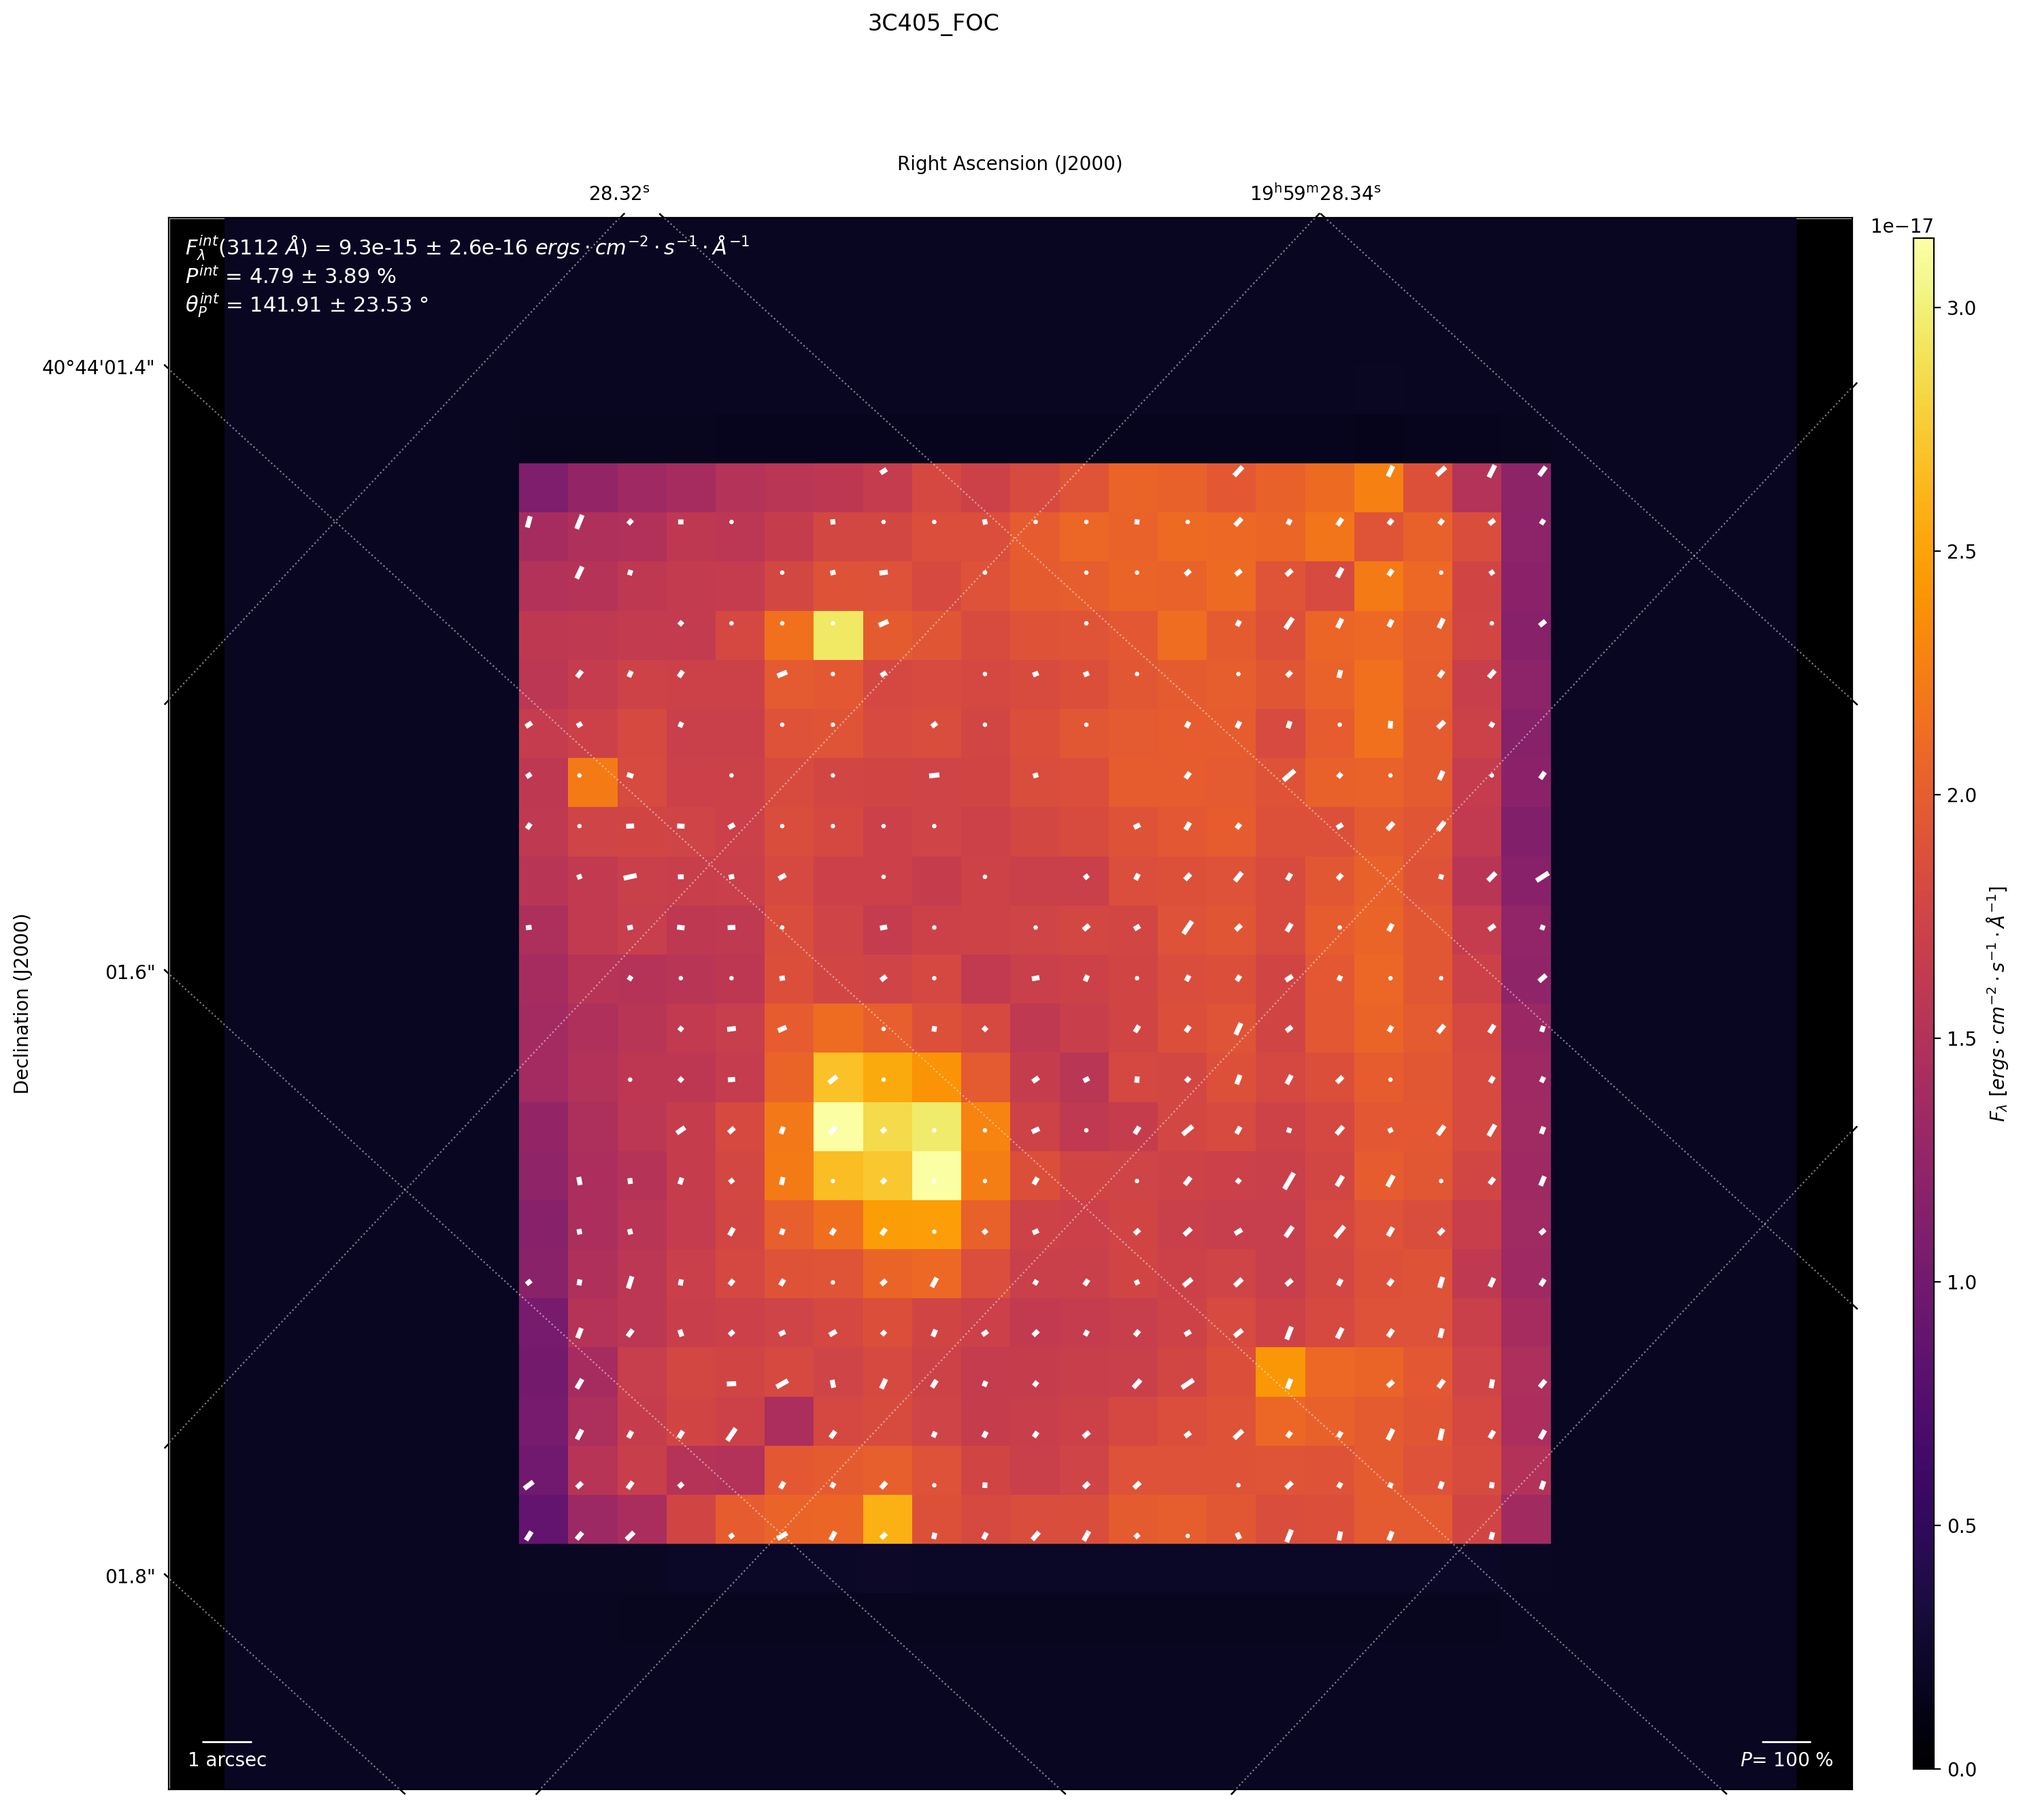
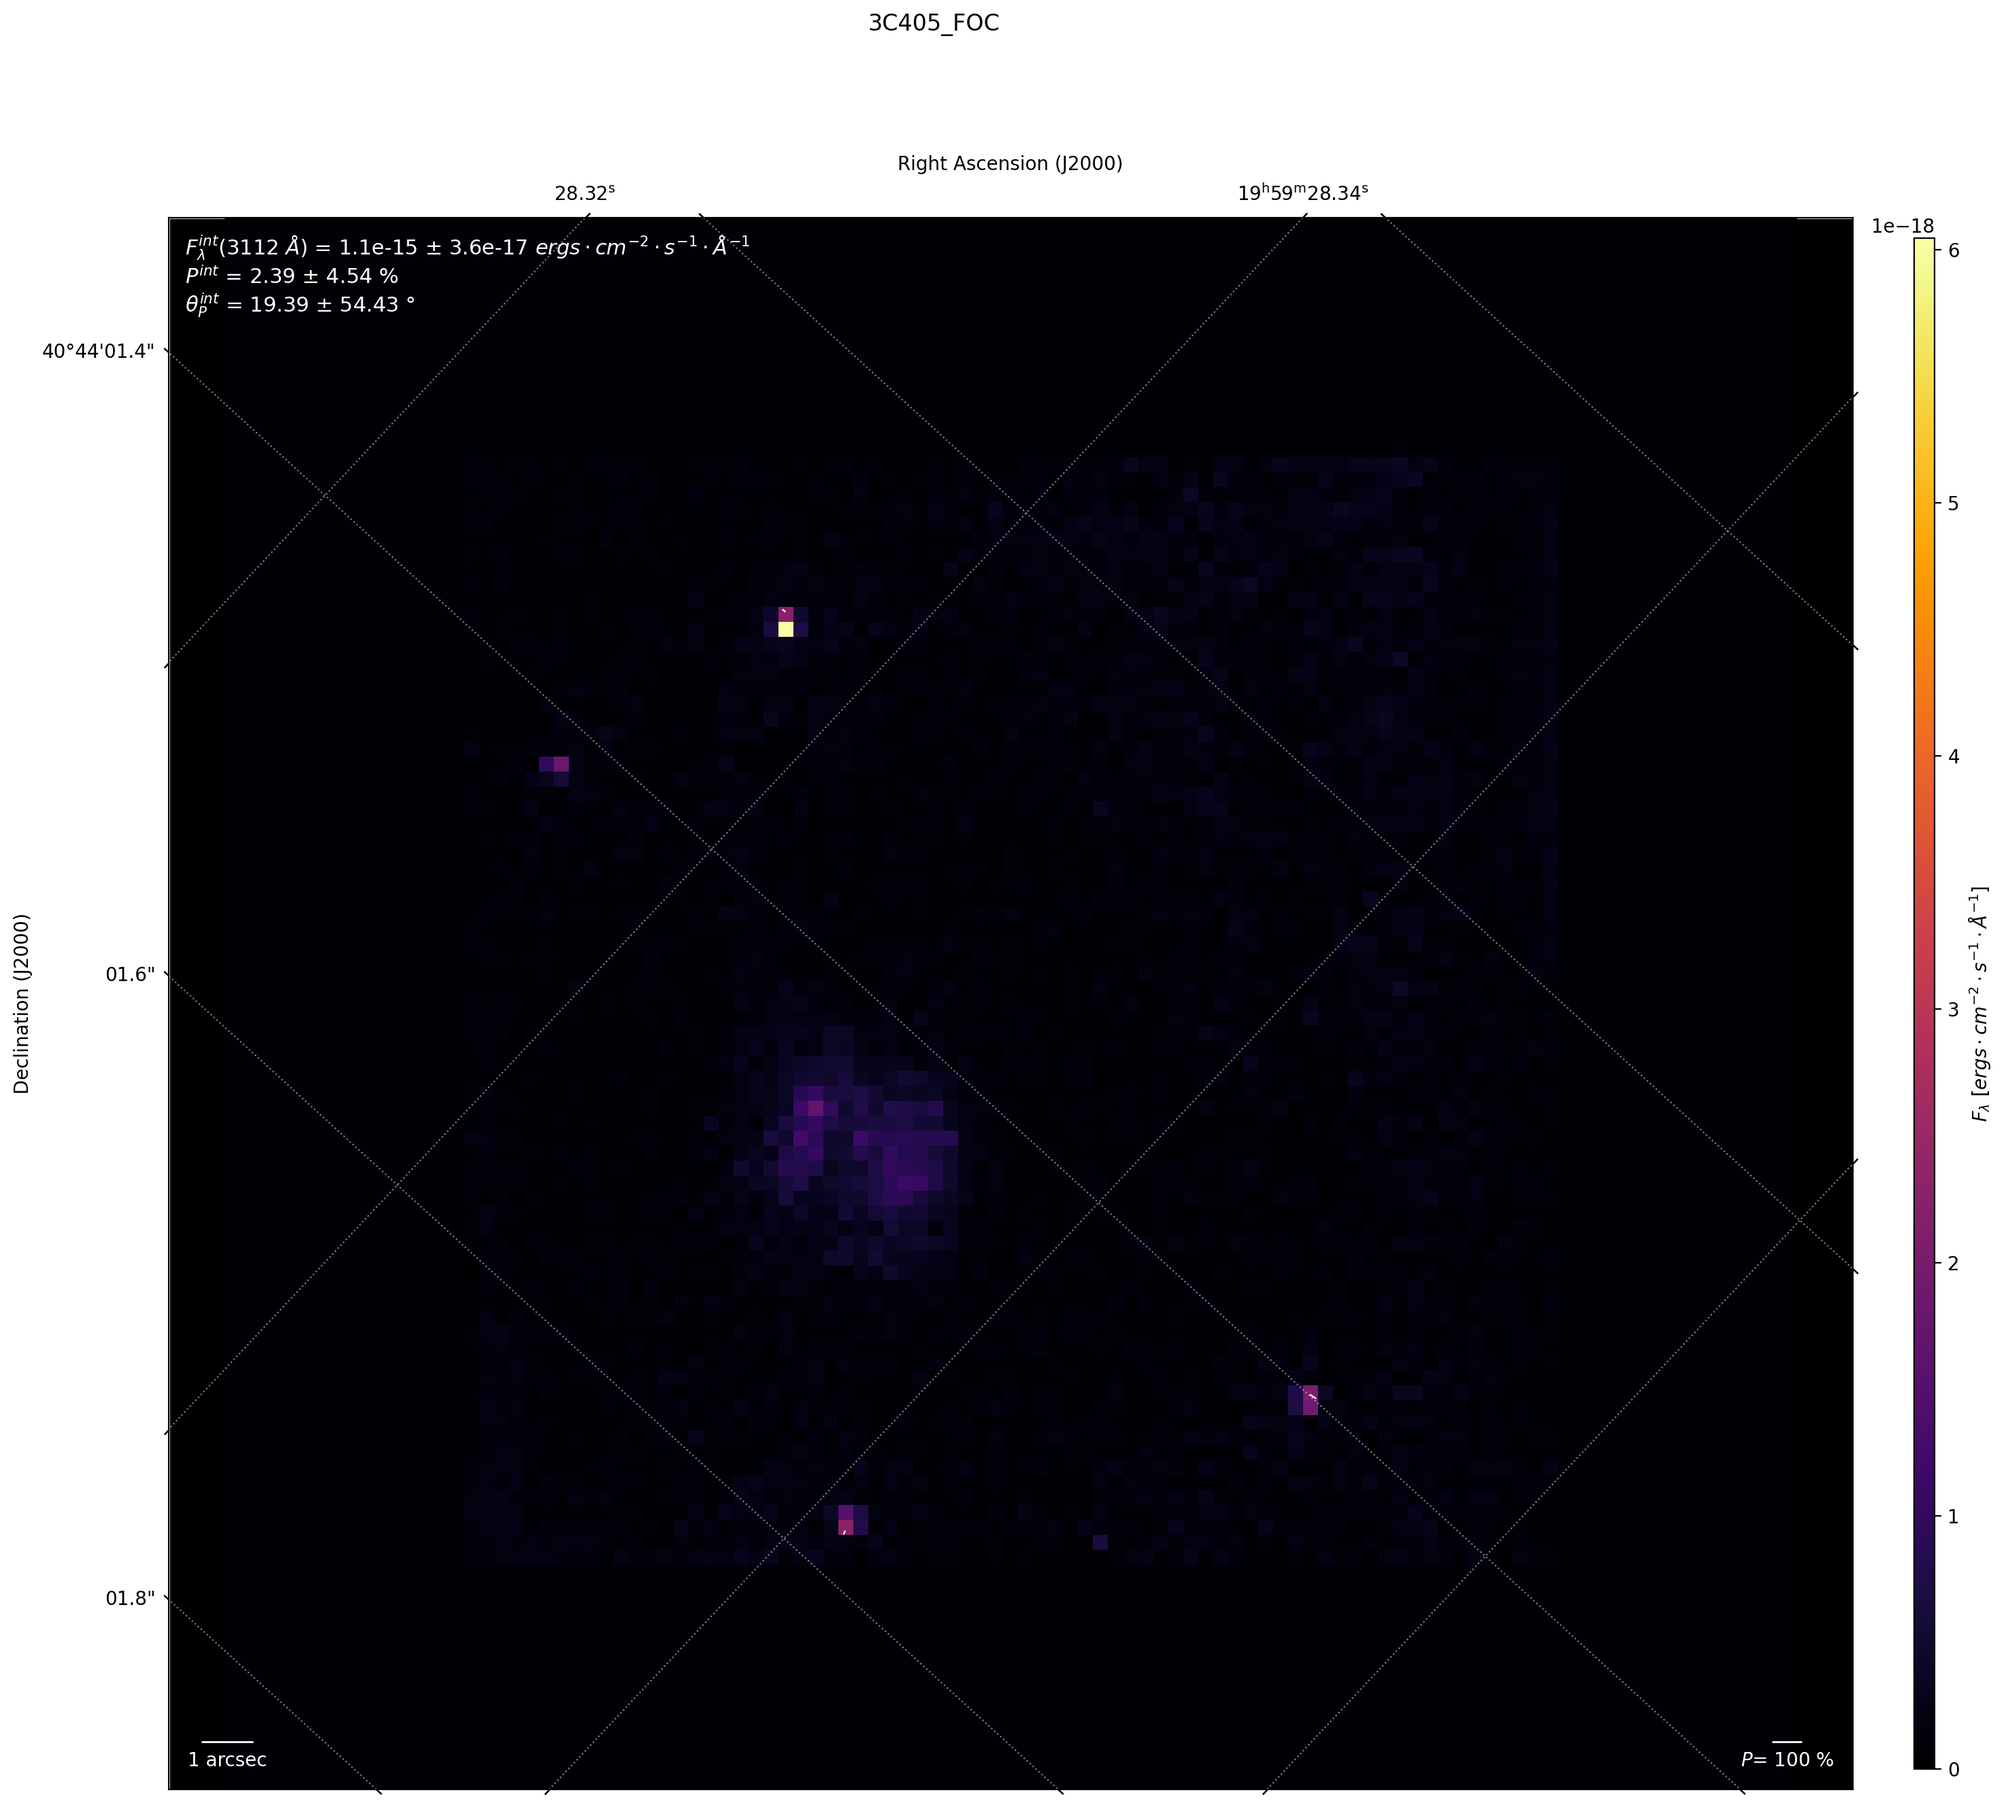
clean plot directory for 3C405 and push newest plots

diff --git a/src/FOC_reduction.py b/src/FOC_reduction.py
@@ -16,11 +16,11 @@ import lib.plots as proj_plots      #Functions for plotting data
 def main():
     ##### User inputs
     ## Input and output locations
-    globals()['data_folder'] = "../data/NGC1068_x274020/"
-    infiles = ['x274020at.c0f.fits','x274020bt.c0f.fits','x274020ct.c0f.fits',
-            'x274020dt.c0f.fits','x274020et.c0f.fits','x274020ft.c0f.fits',
-            'x274020gt.c0f.fits','x274020ht.c0f.fits','x274020it.c0f.fits']
-    globals()['plots_folder'] = "../plots/NGC1068_x274020/"
+#    globals()['data_folder'] = "../data/NGC1068_x274020/"
+#    infiles = ['x274020at.c0f.fits','x274020bt.c0f.fits','x274020ct.c0f.fits',
+#            'x274020dt.c0f.fits','x274020et.c0f.fits','x274020ft.c0f.fits',
+#            'x274020gt.c0f.fits','x274020ht.c0f.fits','x274020it.c0f.fits']
+#    globals()['plots_folder'] = "../plots/NGC1068_x274020/"
 
 #    globals()['data_folder'] = "../data/NGC1068_x14w010/"
 #    infiles = ['x14w0101t_c0f.fits','x14w0102t_c0f.fits','x14w0103t_c0f.fits',
@@ -29,10 +29,10 @@ def main():
 #            'x14w0104t_c1f.fits','x14w0105p_c1f.fits','x14w0106t_c1f.fits']
 #    globals()['plots_folder'] = "../plots/NGC1068_x14w010/"
 
-#    globals()['data_folder'] = "../data/3C405_x136060/"
-#    infiles = ['x1360601t_c0f.fits','x1360602t_c0f.fits','x1360603t_c0f.fits']
+    globals()['data_folder'] = "../data/3C405_x136060/"
+    infiles = ['x1360601t_c0f.fits','x1360602t_c0f.fits','x1360603t_c0f.fits']
 #    infiles = ['x1360601t_c1f.fits','x1360602t_c1f.fits','x1360603t_c1f.fits']
-#    globals()['plots_folder'] = "../plots/3C405_x136060/"
+    globals()['plots_folder'] = "../plots/3C405_x136060/"
 
 #    globals()['data_folder'] = "../data/CygnusA_x43w0/"
 #    infiles = ['x43w0101r_c0f.fits', 'x43w0104r_c0f.fits', 'x43w0107r_c0f.fits',
@@ -44,7 +44,7 @@ def main():
 
     ## Reduction parameters
     # Deconvolution
-    deconvolve = True
+    deconvolve = False
     if deconvolve:
         psf = 'gaussian'  #Can be user-defined as well
         psf_FWHM = 0.10
@@ -52,27 +52,27 @@ def main():
         psf_shape=(9,9)
         iterations = 10
     # Error estimation
-    error_sub_shape = (50,50)
+    error_sub_shape = (100,100)
     display_error = False
     # Data binning
     rebin = True
     if rebin:
-        pxsize = 0.10
+        pxsize = 0.30
         px_scale = 'arcsec'         #pixel or arcsec
         rebin_operation = 'sum'     #sum or average
     # Alignement
-    align_center = 'maxflux'        #If None will align image to image center
-    display_data = True
+    align_center = 'image'        #If None will align image to image center
+    display_data = False
     # Smoothing
     smoothing_function = 'combine'  #gaussian or combine
-    smoothing_FWHM = None           #If None, no smoothing is done
+    smoothing_FWHM = 2           #If None, no smoothing is done
     smoothing_scale = 'pixel'       #pixel or arcsec
     # Rotation
     rotate = False                  #rotation to North convention can give erroneous results
     rotate_library = 'scipy'        #scipy or pillow
     # Polarization map output
-    figname = 'NGC1068_FOC'         #target/intrument name
-    figtype = ''    #additionnal informations
+    figname = '3C405_FOC'         #target/intrument name
+    figtype = '_combine_FWHM2'    #additionnal informations
     SNRp_cut = 3    #P measurments with SNR>3
     SNRi_cut = 30   #I measurments with SNR>30, which implies an uncertainty in P of 4.7%.
     step_vec = 1    #plot all vectors in the array. if step_vec = 2, then every other vector will be plotted
